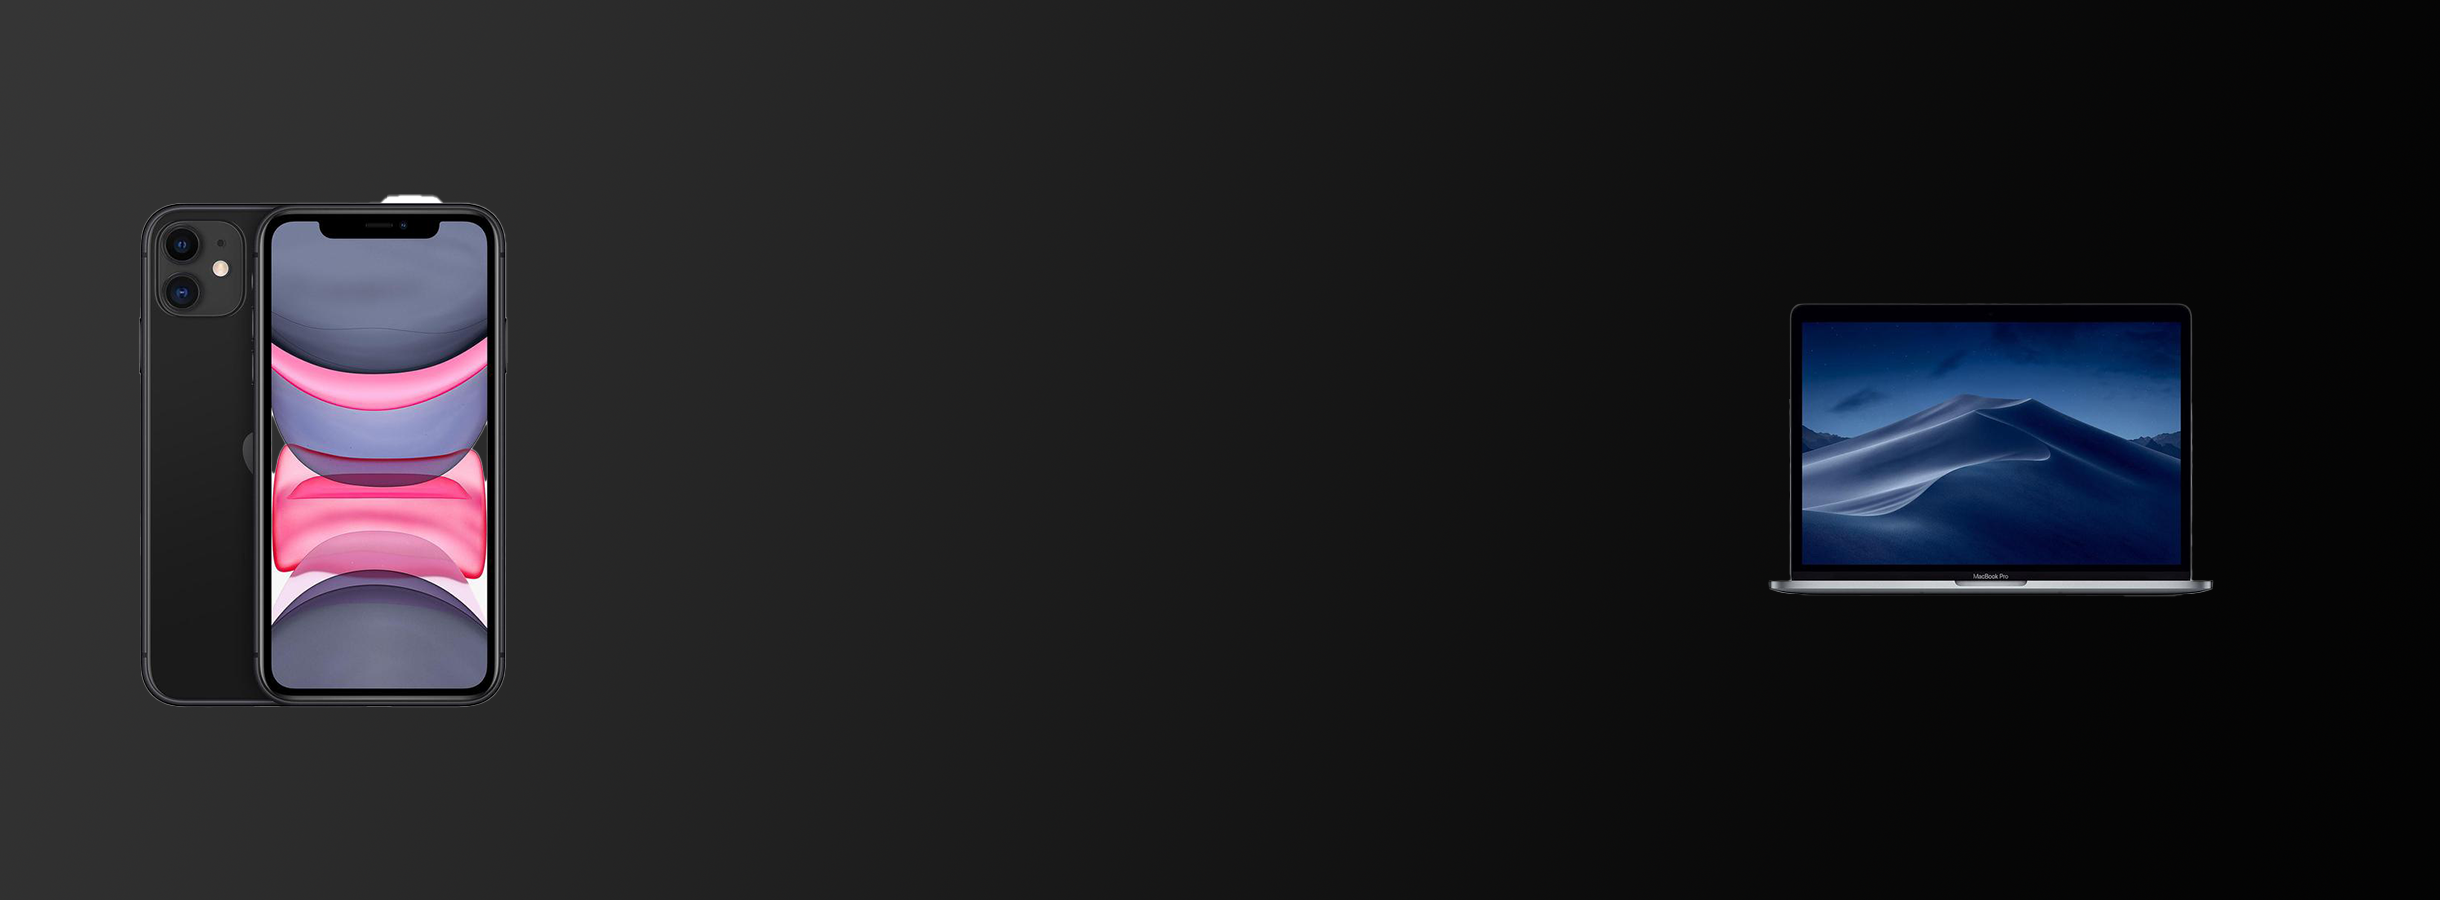
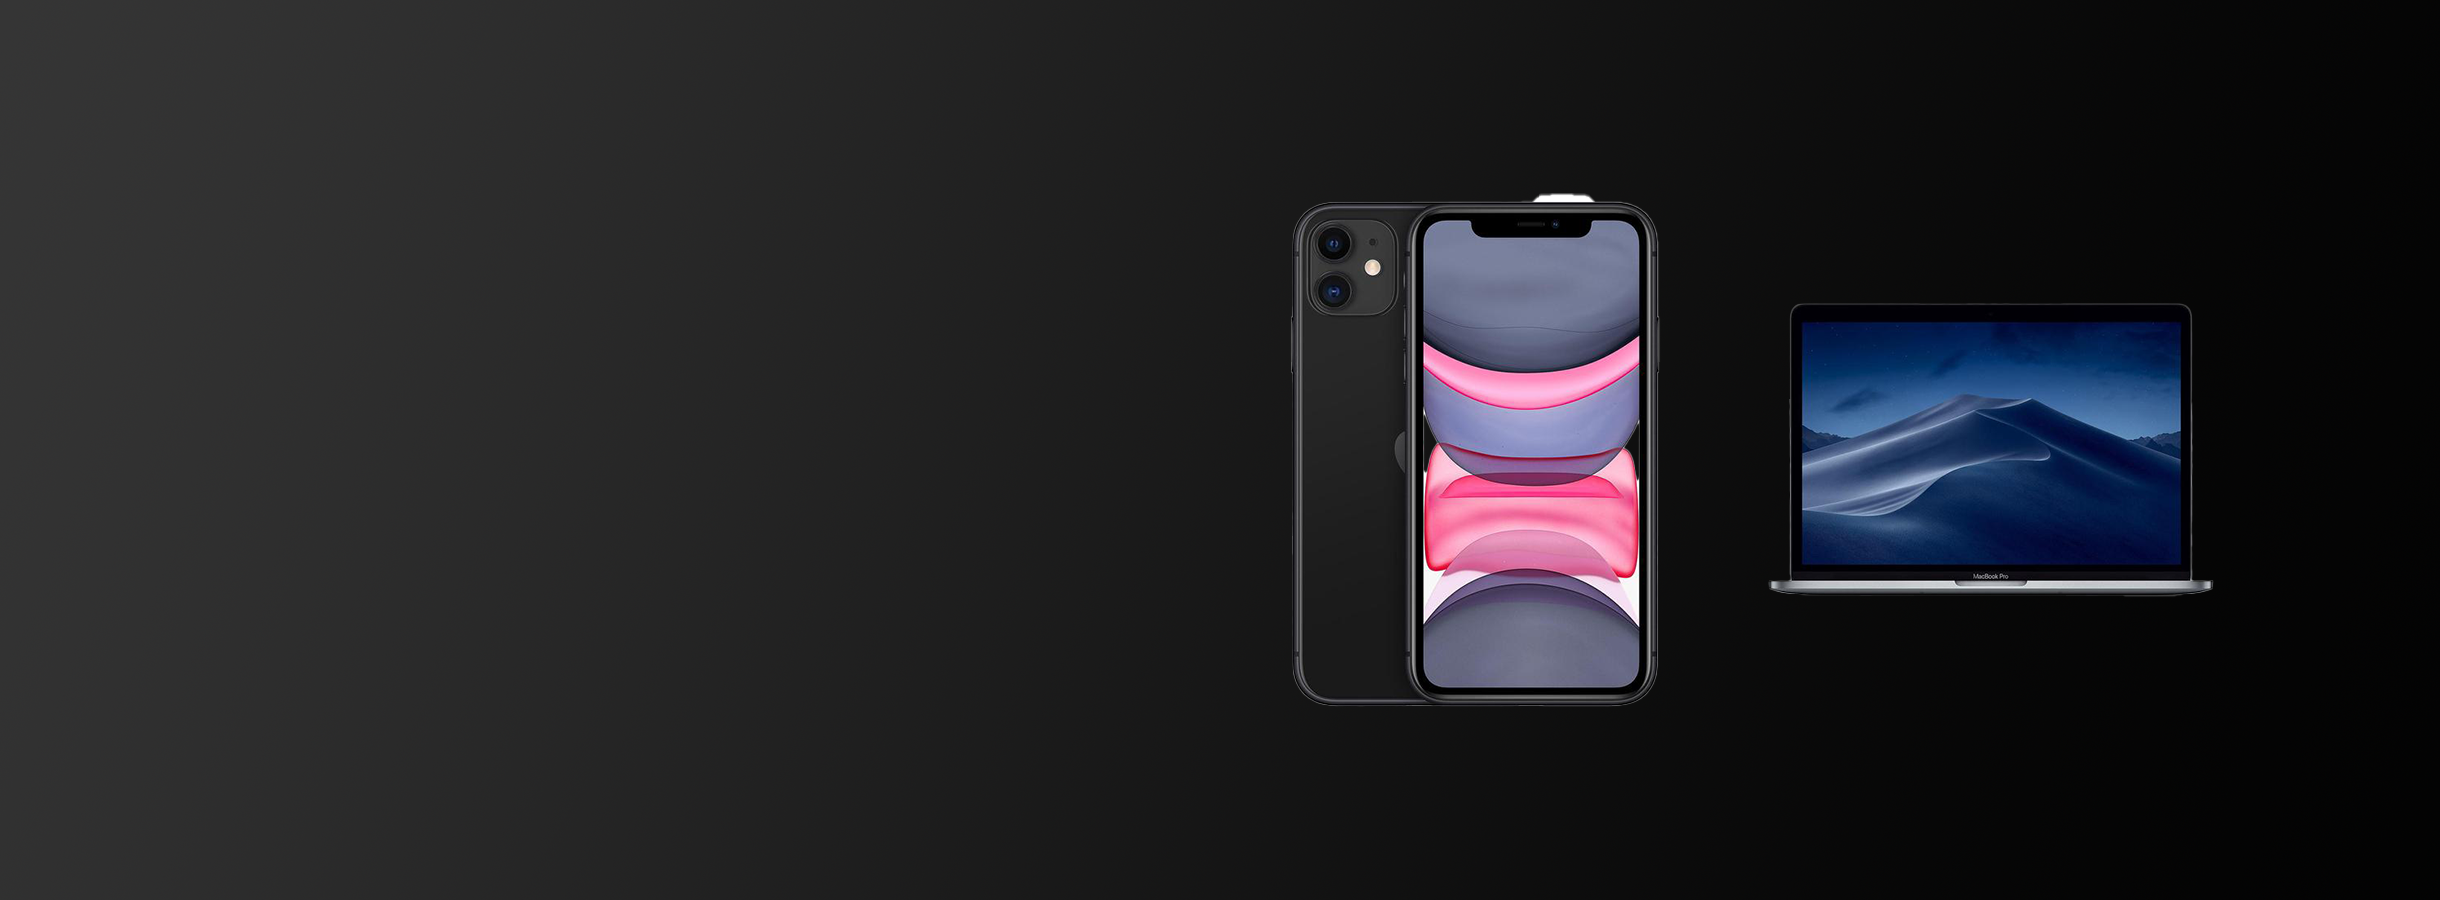
mod

Changed region(s): [[0.5295, 0.2178, 0.6852, 0.8089], [0.0623, 0.2178, 0.218, 0.8089]]

diff --git a/css/index.css b/css/index.css
@@ -269,8 +269,10 @@ width: 50%;
 .parent{
     margin-top: 10px;
     display: flex;
-    justify-content: flex-start;
-    height: 65vh;
+    flex-direction: column;
+    align-items: center;
+    /* justify-content: flex-start; */
+    height: 80vh;
     width: calc(112% - 250px);
 }
 .parent video{
@@ -278,24 +280,23 @@ width: 50%;
     background-size: cover;
     background-position: center;
     position: relative;
-    width: calc(112% - 250px);
+    width: calc(100%);
     display: flex;
     align-items: center;
     justify-content: flex-end;
-    height: 60vh;
+    height: 50vh;
     border-radius: 2px;
     margin: 0 auto;
     margin: 20px 20px;
 }
 .parent .contex{
     padding: 20px;
-    height: 60vh;
-    width: 30rem;
+    width: 100%;
     display: flex;
     flex-direction: column;
-    justify-content: space-around;
+    justify-content: space-between;
     align-items: center;
-    border-left: solid 1px var(--text-color);
+    /* border-left: solid 1px var(--text-color); */
     transition: var(--tran-05);
     margin: 0 auto;
 }
@@ -306,6 +307,12 @@ width: 50%;
 .parent .contex .text{
     font-size: 20px !important;
     text-align: justify;
+}
+.parent .animation{
+    display: flex;
+    justify-content: center;
+    align-items: center;
+    width: 30%;
 }
 /*-----------------------------------button-----------------------------------*/
 .animation {
@@ -602,13 +609,13 @@ body.dark .switch:before{
 }
 /*------------------------------------- Pub ---------------------------------------------------------------------*/
 .dashboard .pub{
-    background: url("/assets/asus4.jpg") no-repeat;
+    background: url("/assets/Untitled-2.png") no-repeat;
     background-size: cover;
     object-fit: fill;
     background-position: center;
     position: relative;
     width: calc(112% - 250px);
-    height: 60vh;
+    height: 50vh;
     display: flex;
     justify-content: flex-start;
     align-items: center;
@@ -619,7 +626,7 @@ body.dark .switch:before{
 .dashboard .pub .contex{
     padding: 20px;
     color: white;
-    height: 50vh;
+    height: 45vh;
     display: flex;
     flex-direction: column;
     justify-content: space-around;

diff --git a/index.html b/index.html
@@ -73,7 +73,6 @@
                 </a>
             </div>
             <div class="parent">
-                <video autoplay="autoplay" src="./assets/Enter The Zephyrus.mp4"></video>
                 <div class="contex">
                     <h2 class="titre">HIGH TECH, LOW IMPACT</h2>
                     <span class="text">Acheter du matérial informatique reconditionné plutot que neuf</span> <br>
@@ -85,6 +84,7 @@
                         VOIR PLUS
                     </a>
                 </div> 
+                <video autoplay="autoplay" src="./assets/Enter The Zephyrus.mp4"></video>
             </div>
             <div class="articles-informatique">
                 <div class="titre">
